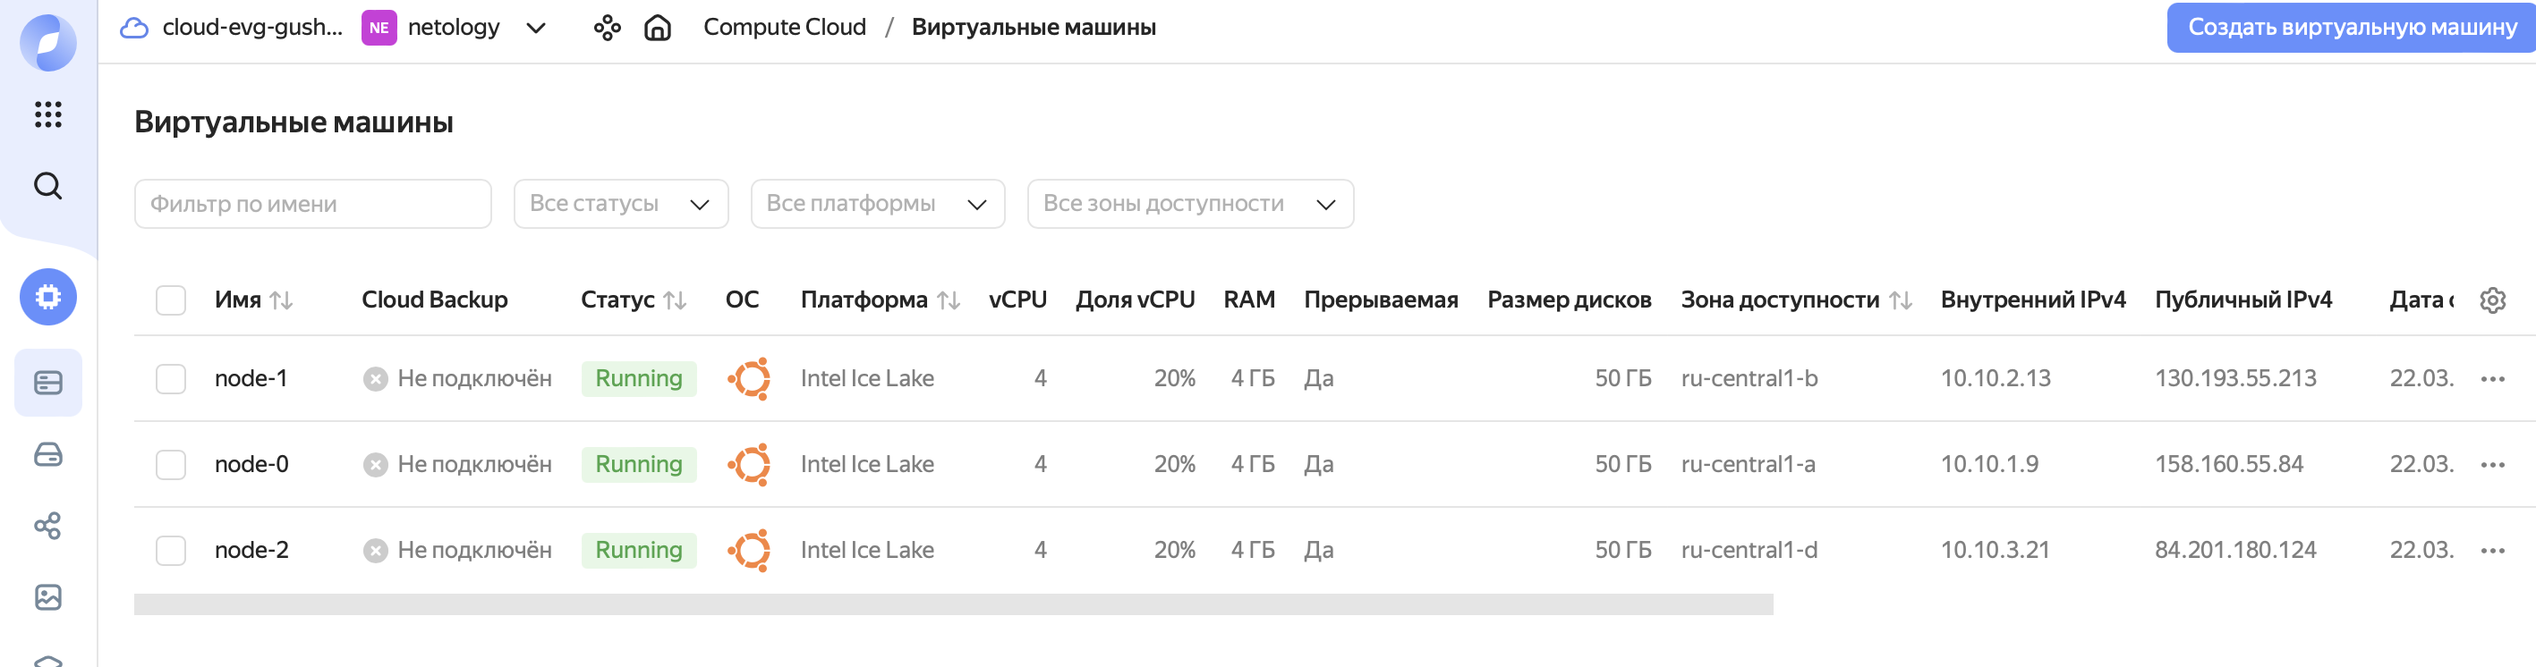
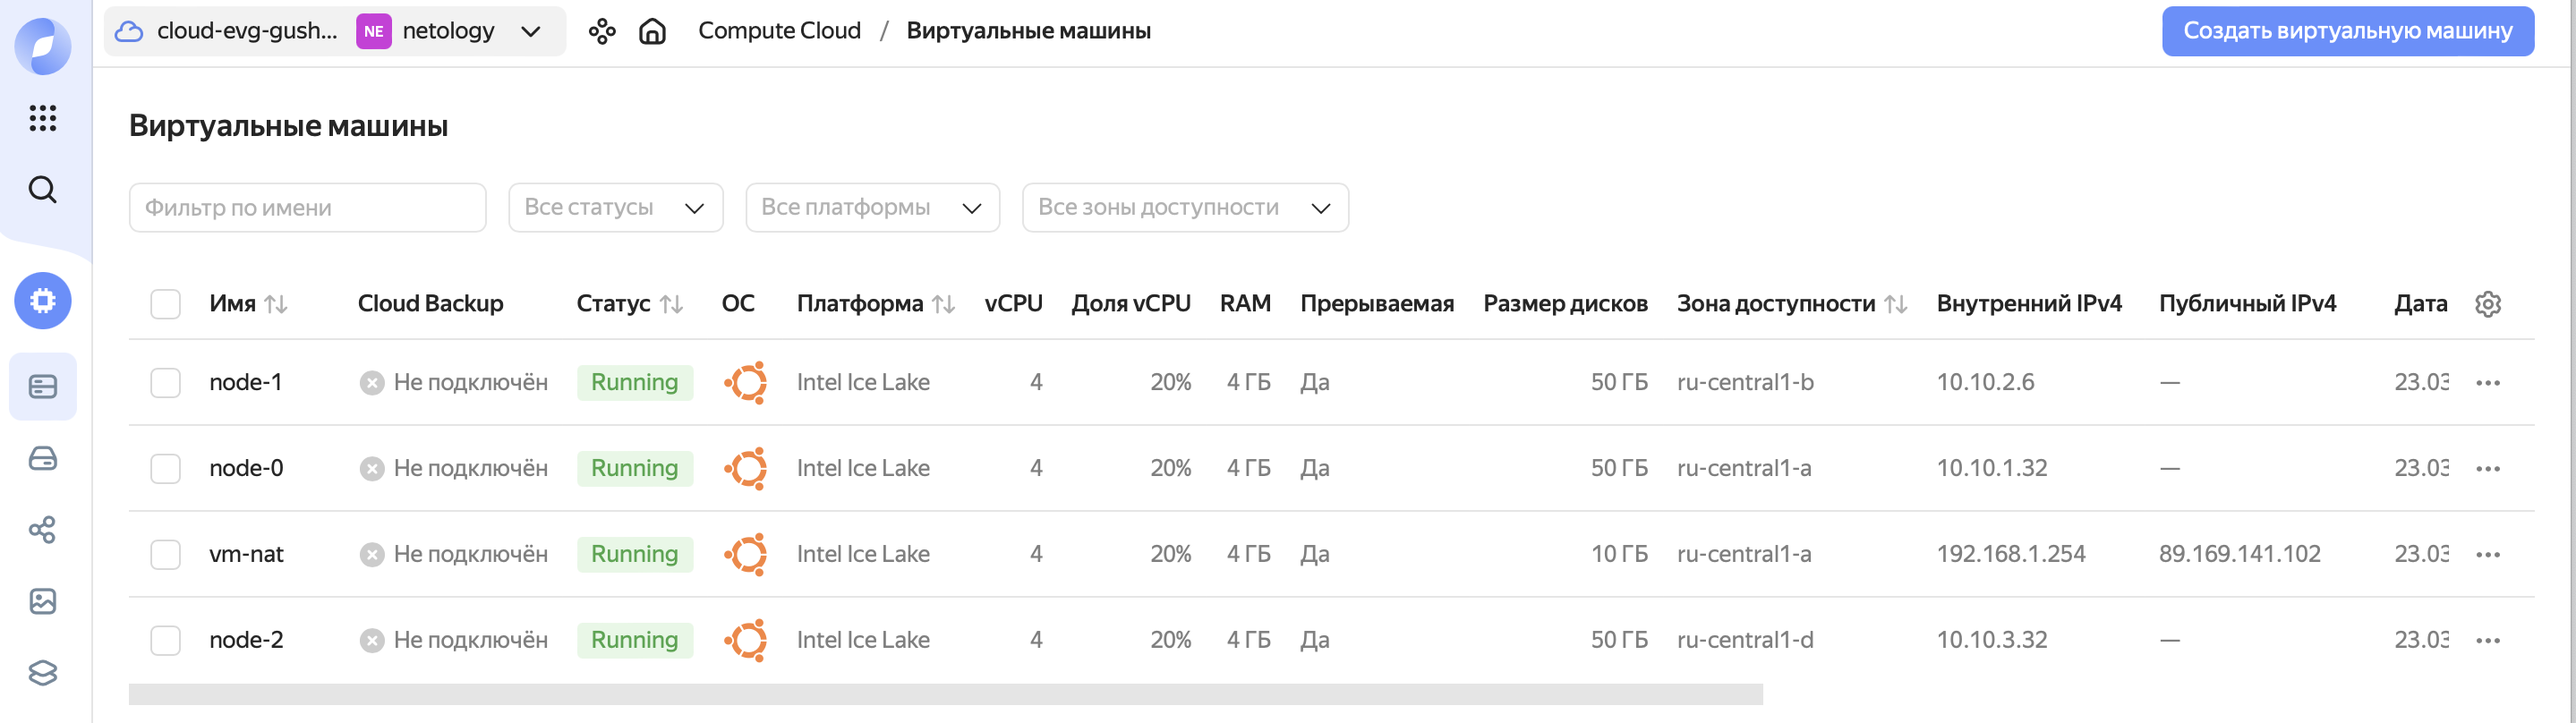
after cluster install

diff --git a/diplom/README.md b/diplom/README.md
@@ -54,16 +54,25 @@ backend "s3" {
 ```yaml
 ---
 all:
+  vars:
+    ansible_ssh_user: ubuntu
+    ansible_ssh_private_key_file: ~/.ssh/id_ed25519
+    ansible_ssh_common_args: '-o ProxyCommand="ssh -W %h:%p -q -o UserKnownHostsFile=/dev/null -o StrictHostKeyChecking=no "{{ ansible_ssh_user }}"@89.169.141.102 -i "{{ ansible_ssh_private_key_file }}""'
+    become: true
+    ansible_python_interpreter: /usr/bin/python3
   hosts:
     node-0:
-      ansible_host: 158.160.55.84
-      ip: 10.10.1.9
+      ansible_host: 10.10.1.32
+      ip: 10.10.1.32
+      access_ip: 10.10.1.32
     node-1:
-      ansible_host: 130.193.55.213
-      ip: 10.10.2.13
+      ansible_host: 10.10.2.6
+      ip: 10.10.2.6
+      access_ip: 10.10.2.6
     node-2:
-      ansible_host: 84.201.180.124
-      ip: 10.10.3.21
+      ansible_host: 10.10.3.32
+      ip: 10.10.3.32
+      access_ip: 10.10.3.32
   children:
     kube_control_plane:
       hosts:
@@ -96,11 +105,28 @@ all:
 
 ![img](./img/kube0.png)
 
-3. Скопировал инвентори файл и запустил установку
-```bash
-ansible-playbook -i inventory/mycluster/hosts.yaml -u ubuntu --become --become-user=root cluster.yml
+3. Добавил:
+- [install.yml](./ansible/install.yml) для развертывания кластера
+- [prepare.yml](./ansible/prepare.yml) для ожидания ВМ кластера
+- [config.yml](./ansible/config.yml) работа с конфиг файлом после развертывания кластера
+
+3. В [ansible.tf](./tf-main/ansible.tf) добавил шаг по запуску `ansible-playbook`
+```
+resource "null_resource" "installation" {
+  depends_on = [
+    local_file.hosts_templatefile,
+  ]
+
+  provisioner "local-exec" {
+    command = "export ANSIBLE_HOST_KEY_CHECKING=False; ansible-playbook -i ../ansible/kubespray/inventory/mycluster/hosts.yaml -u ubuntu --become --become-user=root ../ansible/install.yml"
+  }
+
+}
 ```
 
-4. Кластер установился
+4. После отработки Ansible, кластер установился
 ![img](./img/ans1.png)
+
+![img](./img/kube2.png)
+![img](./img/kube1.png)
 
